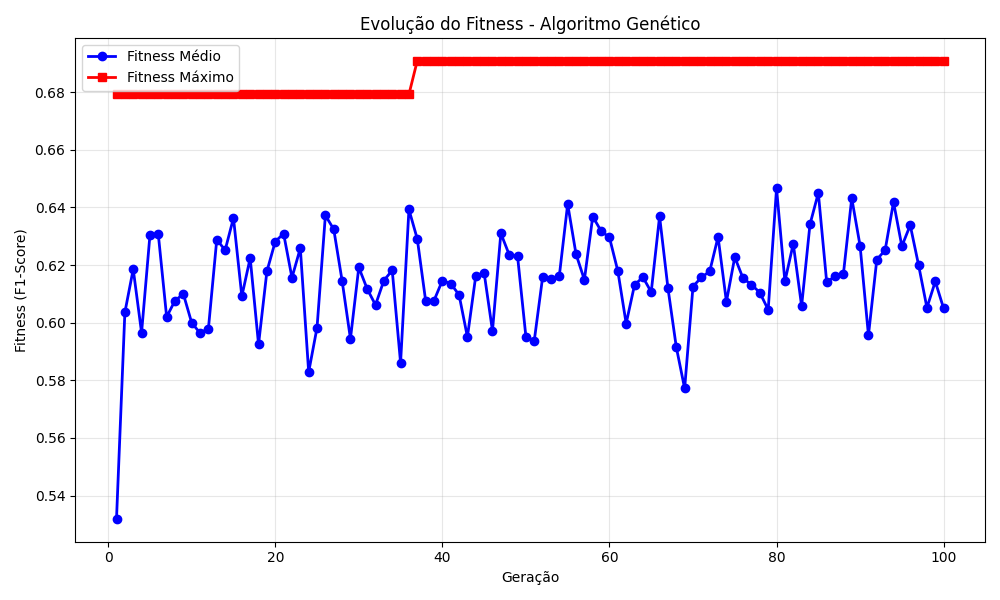
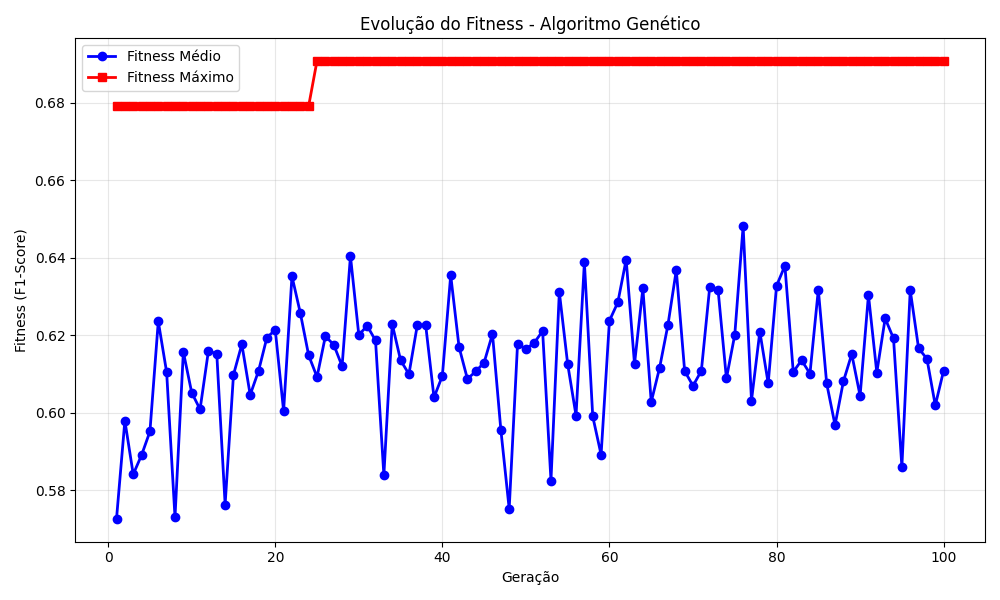
Produção de gráficos e evidencias da evolução do modelo apó AG

diff --git a/diabetes_regressao_logistica3_evolucoes.py b/diabetes_regressao_logistica3_evolucoes.py
@@ -7,13 +7,12 @@ import seaborn as sns
 from sklearn.model_selection import train_test_split
 from sklearn.preprocessing import StandardScaler
 from sklearn.linear_model import LogisticRegression
-from sklearn.metrics import recall_score, f1_score, confusion_matrix, precision_score
+from sklearn.metrics import recall_score, confusion_matrix
 
 # --- 1. PREPARAÇÃO DOS DADOS ---
-print("Carregando e preparando dados com foco em Recall...")
+print("Carregando dados para maximização de redução de FN...")
 df = pd.read_csv('datasets/diabetes.csv')
 
-# Tratamento biológico (0 -> NaN -> Mediana)
 cols_to_replace = ['Glucose', 'BloodPressure', 'SkinThickness', 'Insulin', 'BMI']
 df[cols_to_replace] = df[cols_to_replace].replace(0, np.nan)
 for col in cols_to_replace:
@@ -22,12 +21,11 @@ for col in cols_to_replace:
 X_raw = df.drop('Outcome', axis=1)
 y_raw = df['Outcome']
 
-# Divisão Train/Test com estratificação rigorosa
 X_train_full, X_test_full, y_train, y_test = train_test_split(
     X_raw, y_raw, test_size=0.2, random_state=42, stratify=y_raw
 )
 
-# --- 2. FUNÇÃO DE FITNESS (O CORAÇÃO DA MELHORIA) ---
+# --- 2. FUNÇÃO DE FITNESS (FOCO TOTAL EM MINIMIZAR FN) ---
 def fitness_func(ga_instance, solution, solution_idx):
     c_val = solution[0]
     solver_idx = int(solution[1])
@@ -37,14 +35,13 @@ def fitness_func(ga_instance, solution, solution_idx):
     solvers = ['lbfgs', 'liblinear', 'saga']
     selected_solver = solvers[solver_idx]
 
-    # Filtragem de Outliers menos agressiva (para não perder casos reais de diabetes)
     df_temp = pd.concat([X_train_full, y_train], axis=1).copy()
     for col in X_train_full.columns:
         Q1, Q3 = df_temp[col].quantile(0.25), df_temp[col].quantile(0.75)
         IQR = Q3 - Q1
         df_temp = df_temp[(df_temp[col] >= Q1 - iqr_f*IQR) & (df_temp[col] <= Q3 + iqr_f*IQR)]
     
-    if len(df_temp) < 200 or not any(feature_mask): return 0 
+    if len(df_temp) < 150 or not any(feature_mask): return -99999 
 
     X_train_ga = df_temp.drop('Outcome', axis=1).iloc[:, feature_mask]
     y_train_ga = df_temp['Outcome']
@@ -54,61 +51,66 @@ def fitness_func(ga_instance, solution, solution_idx):
     X_train_sc = scaler.fit_transform(X_train_ga)
     X_test_sc = scaler.transform(X_test_ga)
 
-    # MELHORIA CHAVE: class_weight='balanced' ajuda a reduzir Falsos Negativos
-    model = LogisticRegression(
-        C=c_val, 
-        solver=selected_solver, 
-        class_weight='balanced', 
-        max_iter=3000,
-        random_state=42
-    )
+    # Note o uso de class_weight='balanced' para forçar o modelo a olhar para a classe minoritária
+    model = LogisticRegression(C=c_val, solver=selected_solver, class_weight='balanced', max_iter=3000, random_state=42)
     model.fit(X_train_sc, y_train_ga)
     
     preds = model.predict(X_test_sc)
-    
-    # MÉTRICAS
-    recall = recall_score(y_test, preds, zero_division=0)
     cm = confusion_matrix(y_test, preds)
-    falsos_negativos = cm[1][0] if len(cm) > 1 else 999
     
-    # FITNESS PERSONALIZADA: Penaliza pesadamente cada Falso Negativo
-    # Quanto menos FN, maior a fitness. 
-    fitness = (recall * 1000) - (falsos_negativos * 50)
+    if len(cm) < 2: return -99999
+    
+    falsos_negativos = cm[1][0]
+    recall = recall_score(y_test, preds, zero_division=0)
+    
+    # ESTRATÉGIA DE FITNESS: 
+    # 1. Recompensamos o Recall (escala 0-1000)
+    # 2. Penalizamos PESADAMENTE cada FN (500 pontos por erro)
+    # Isso força o AG a descartar qualquer solução que deixe passar casos positivos.
+    fitness = (recall * 1000) - (falsos_negativos * 500)
     
     return fitness
 
-# --- 3. CONFIGURAÇÃO E EXECUÇÃO DO AG ---
-gene_space = [
-    {'low': 0.001, 'high': 20.0}, # C (amplitude aumentada)
-    [0, 1, 2],                    # Solver
-    [0],                          # Penalty (fixado em L2 para estabilidade)
-    {'low': 2.0, 'high': 4.0},    # IQR Factor (mais alto para manter dados críticos)
-] + [[0, 1]] * 8
+# --- 3. CALLBACK DE MONITORAMENTO ---
+def on_generation(ga_instance):
+    gen = ga_instance.generations_completed
+    best_sol, best_fit, _ = ga_instance.best_solution()
+    solvers = ['lbfgs', 'liblinear', 'saga']
+    print(f"Gen {gen:03d} | Fitness: {best_fit:8.2f} | C: {best_sol[0]:.4f} | Solver: {solvers[int(best_sol[1])]}")
+
+# --- 4. CONFIGURAÇÃO E EXECUÇÃO DO AG ---
+gene_space = [{'low': 0.001, 'high': 50.0}, [0, 1, 2], [0], {'low': 1.5, 'high': 5.0}] + [[0, 1]] * 8
 
 ga_instance = pygad.GA(
-    num_generations=100,
-    num_parents_mating=15,
+    num_generations=100, # Aumentado para busca mais exaustiva
+    num_parents_mating=10,
     fitness_func=fitness_func,
-    sol_per_pop=50,
+    sol_per_pop=40,
     num_genes=len(gene_space),
     gene_space=gene_space,
-    mutation_percent_genes=10,
-    crossover_type="uniform",
-    parent_selection_type="tournament"
+    on_generation=on_generation,
+    mutation_percent_genes=15 # Aumentado para evitar estagnação
 )
 
-print("Evoluindo modelo para eliminar Falsos Negativos...")
+print("\nIniciando busca agressiva por Zero Falsos Negativos...")
 ga_instance.run()
 
-# --- 4. AVALIAÇÃO FINAL E COMPARATIVO ---
-solution, solution_fitness, _ = ga_instance.best_solution()
+# --- 5. GERAÇÃO DOS GRÁFICOS ---
 
-# Reconstrução do modelo otimizado
+# Plot Fitness
+plt.figure(figsize=(10, 5))
+ga_instance.plot_fitness(title="Evolução da Fitness (Minimização de FN)")
+plt.grid(True, alpha=0.3)
+plt.savefig('evolucao_fn_fitness.png', dpi=300)
+plt.show()
+
+# --- 6. AVALIAÇÃO FINAL ---
+solution, _, _ = ga_instance.best_solution()
 best_f_mask = solution[4:].astype(bool)
 best_iqr = solution[3]
 best_solver = ['lbfgs', 'liblinear', 'saga'][int(solution[1])]
 
-# Aplicar o filtro de outliers otimizado
+# Reconstrução para Validação
 df_final = pd.concat([X_train_full, y_train], axis=1)
 for col in X_train_full.columns:
     Q1, Q3 = df_final[col].quantile(0.25), df_final[col].quantile(0.75)
@@ -122,30 +124,17 @@ sc = StandardScaler()
 X_tr_sc = sc.fit_transform(X_tr_ag)
 X_ts_sc = sc.transform(X_ts_ag)
 
-# Modelo Final com pesos balanceados
-final_model = LogisticRegression(C=solution[0], solver=best_solver, class_weight='balanced', max_iter=3000)
+final_model = LogisticRegression(C=solution[0], solver=best_solver, class_weight='balanced', max_iter=5000)
 final_model.fit(X_tr_sc, y_tr_ag)
 y_pred_final = final_model.predict(X_ts_sc)
 
-# Comparação com o original (sem AG e sem class_weight)
-mod_orig = LogisticRegression(solver='liblinear').fit(StandardScaler().fit_transform(X_train_full), y_train)
-y_pred_orig = mod_orig.predict(StandardScaler().fit_transform(X_test_full))
-
-# Visualização
-cm_orig = confusion_matrix(y_test, y_pred_orig)
+# Comparativo
 cm_ag = confusion_matrix(y_test, y_pred_final)
-
-
-
-fig, ax = plt.subplots(1, 2, figsize=(15, 6))
-sns.heatmap(cm_orig, annot=True, fmt='d', cmap='Reds', ax=ax[0])
-ax[0].set_title(f'ORIGINAL\nRecall: {recall_score(y_test, y_pred_orig):.2f} | FN: {cm_orig[1][0]}')
-sns.heatmap(cm_ag, annot=True, fmt='d', cmap='Greens', ax=ax[1])
-ax[1].set_title(f'AG OTIMIZADO (Foco Zero FN)\nRecall: {recall_score(y_test, y_pred_final):.2f} | FN: {cm_ag[1][0]}')
-
-plt.tight_layout()
-plt.savefig('resultado_final_diabetes.png')
+plt.figure(figsize=(8, 6))
+sns.heatmap(cm_ag, annot=True, fmt='d', cmap='Blues')
+plt.title(f'Matriz de Confusão Otimizada para FN\nRecall: {recall_score(y_test, y_pred_final):.4f}')
+plt.savefig('resultado_final_fn.png', dpi=300)
 plt.show()
 
-print(f"\nMelhor configuração: Solver={best_solver}, C={solution[0]:.4f}, IQR_Factor={best_iqr:.2f}")
-print(f"Features mantidas: {list(X_raw.columns[best_f_mask])}")
+print(f"\nResultado Final: FN encontrados = {cm_ag[1][0]}")
+print(f"Features Selecionadas: {list(X_raw.columns[best_f_mask])}")
